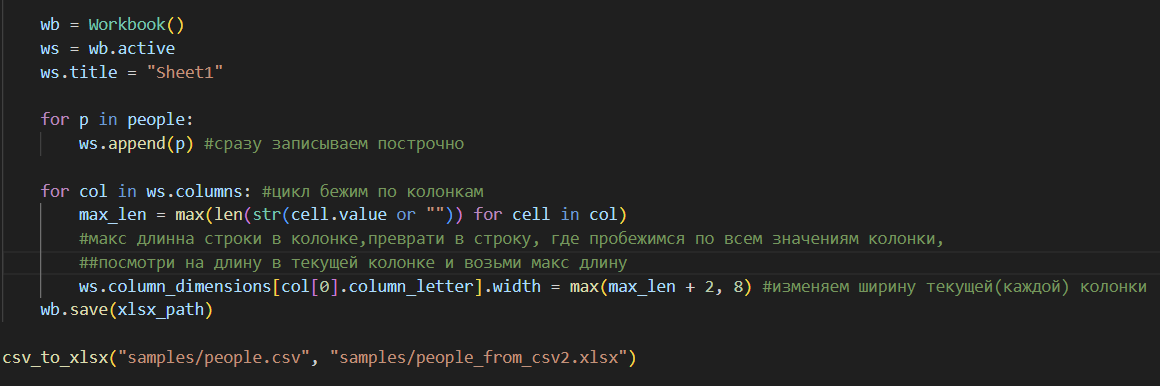
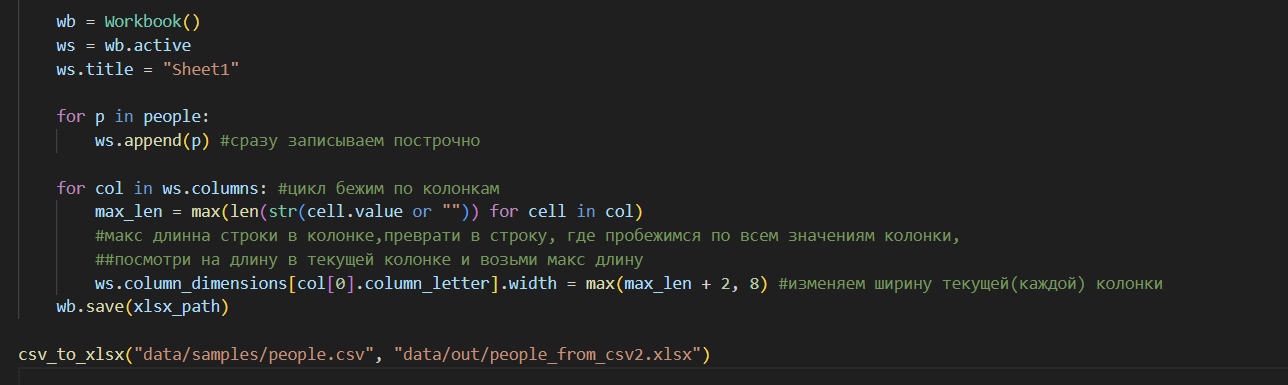
update function csv_to_xlsx (fix column width)

diff --git a/src/lab05/json_csv.py b/src/lab05/json_csv.py
@@ -44,5 +44,5 @@ def csv_to_json(csv_path: str, json_path: str) -> None:
     with open(json_path,'w', encoding="utf-8" ) as f:
         json.dump(rows, f, ensure_ascii=False, indent=2)
 
-json_to_csv("samples/people.json", "samples/people_from_json.csv") #относительной путь онтосительно этого файла
-csv_to_json("samples/people.csv", "samples/people_from_csv.json")
+json_to_csv("data/samples/people.json", "data/out/people_from_json.csv") #относительной путь онтосительно этого файла
+csv_to_json("data/samples/people.csv", "data/out/people_from_csv.json")

diff --git a/src/lab05/csv_xlsx.py b/src/lab05/csv_xlsx.py
@@ -47,4 +47,4 @@ def csv_to_xlsx(csv_path: str, xlsx_path: str) -> None:
         ws.column_dimensions[col[0].column_letter].width = max(max_len + 2, 8) #изменяем ширину текущей(каждой) колонки
     wb.save(xlsx_path)
     
-csv_to_xlsx("samples/people.csv", "samples/people_from_csv2.xlsx")
+csv_to_xlsx("data/samples/people.csv", "data/out/people_from_csv2.xlsx")
